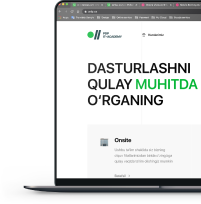
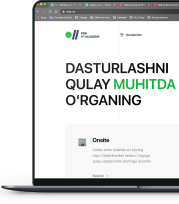
ok

diff --git a/src/Components/MainTwo/MainTwo.scss b/src/Components/MainTwo/MainTwo.scss
@@ -288,24 +288,51 @@
     }
     &__left_hover {
       padding-top: 90px;
-      padding-left: 20px;
+      padding-left: 0px;
     }
     &__right_hover {
       padding-top: 90px;
-      padding-left: 20px;
+      padding-left: 0px;
     }
+    &__left_hover_h2 {
+      margin-left: 18px;
+    }
+    &__left_hover_desc {
+      padding-left: 18px;
+    }
+    &__left_hover_img {
+      margin-left: 18px;
+    }
+    &__right_hover_h2 {
+      margin-left: 18px;
+    }
+    &__right_hover_desc {
+      padding-left: 18px;
+    }
+    &__right_hover_img {
+      margin-left: 18px;
+    }
+    &__left_bg {
+      padding: 0;
+    }
+    &__right_bg {
+      padding: 0;
+    }
+
     &__left_bg_desc {
-      font-size: 14px;
+      font-size: 13px;
+      padding-left: 18px;
     }
     &__left_bg_img {
-      width: 140px;
+      width: 130px;
       height: 180px;
     }
     &__right_bg_desc {
-      font-size: 14px;
+      font-size: 13px;
+      padding-left: 18px;
     }
     &__right_bg_img {
-      width: 140px;
+      width: 130px;
       height: 180px;
     }
   }

diff --git a/src/Components/MainTwo/MainTwo.css b/src/Components/MainTwo/MainTwo.css
@@ -336,24 +336,50 @@
   }
   .maintwo__left_hover {
     padding-top: 90px;
-    padding-left: 20px;
+    padding-left: 0px;
   }
   .maintwo__right_hover {
     padding-top: 90px;
-    padding-left: 20px;
+    padding-left: 0px;
+  }
+  .maintwo__left_hover_h2 {
+    margin-left: 18px;
+  }
+  .maintwo__left_hover_desc {
+    padding-left: 18px;
+  }
+  .maintwo__left_hover_img {
+    margin-left: 18px;
+  }
+  .maintwo__right_hover_h2 {
+    margin-left: 18px;
+  }
+  .maintwo__right_hover_desc {
+    padding-left: 18px;
+  }
+  .maintwo__right_hover_img {
+    margin-left: 18px;
+  }
+  .maintwo__left_bg {
+    padding: 0;
+  }
+  .maintwo__right_bg {
+    padding: 0;
   }
   .maintwo__left_bg_desc {
-    font-size: 14px;
+    font-size: 13px;
+    padding-left: 18px;
   }
   .maintwo__left_bg_img {
-    width: 140px;
+    width: 130px;
     height: 180px;
   }
   .maintwo__right_bg_desc {
-    font-size: 14px;
+    font-size: 13px;
+    padding-left: 18px;
   }
   .maintwo__right_bg_img {
-    width: 140px;
+    width: 130px;
     height: 180px;
   }
 }
